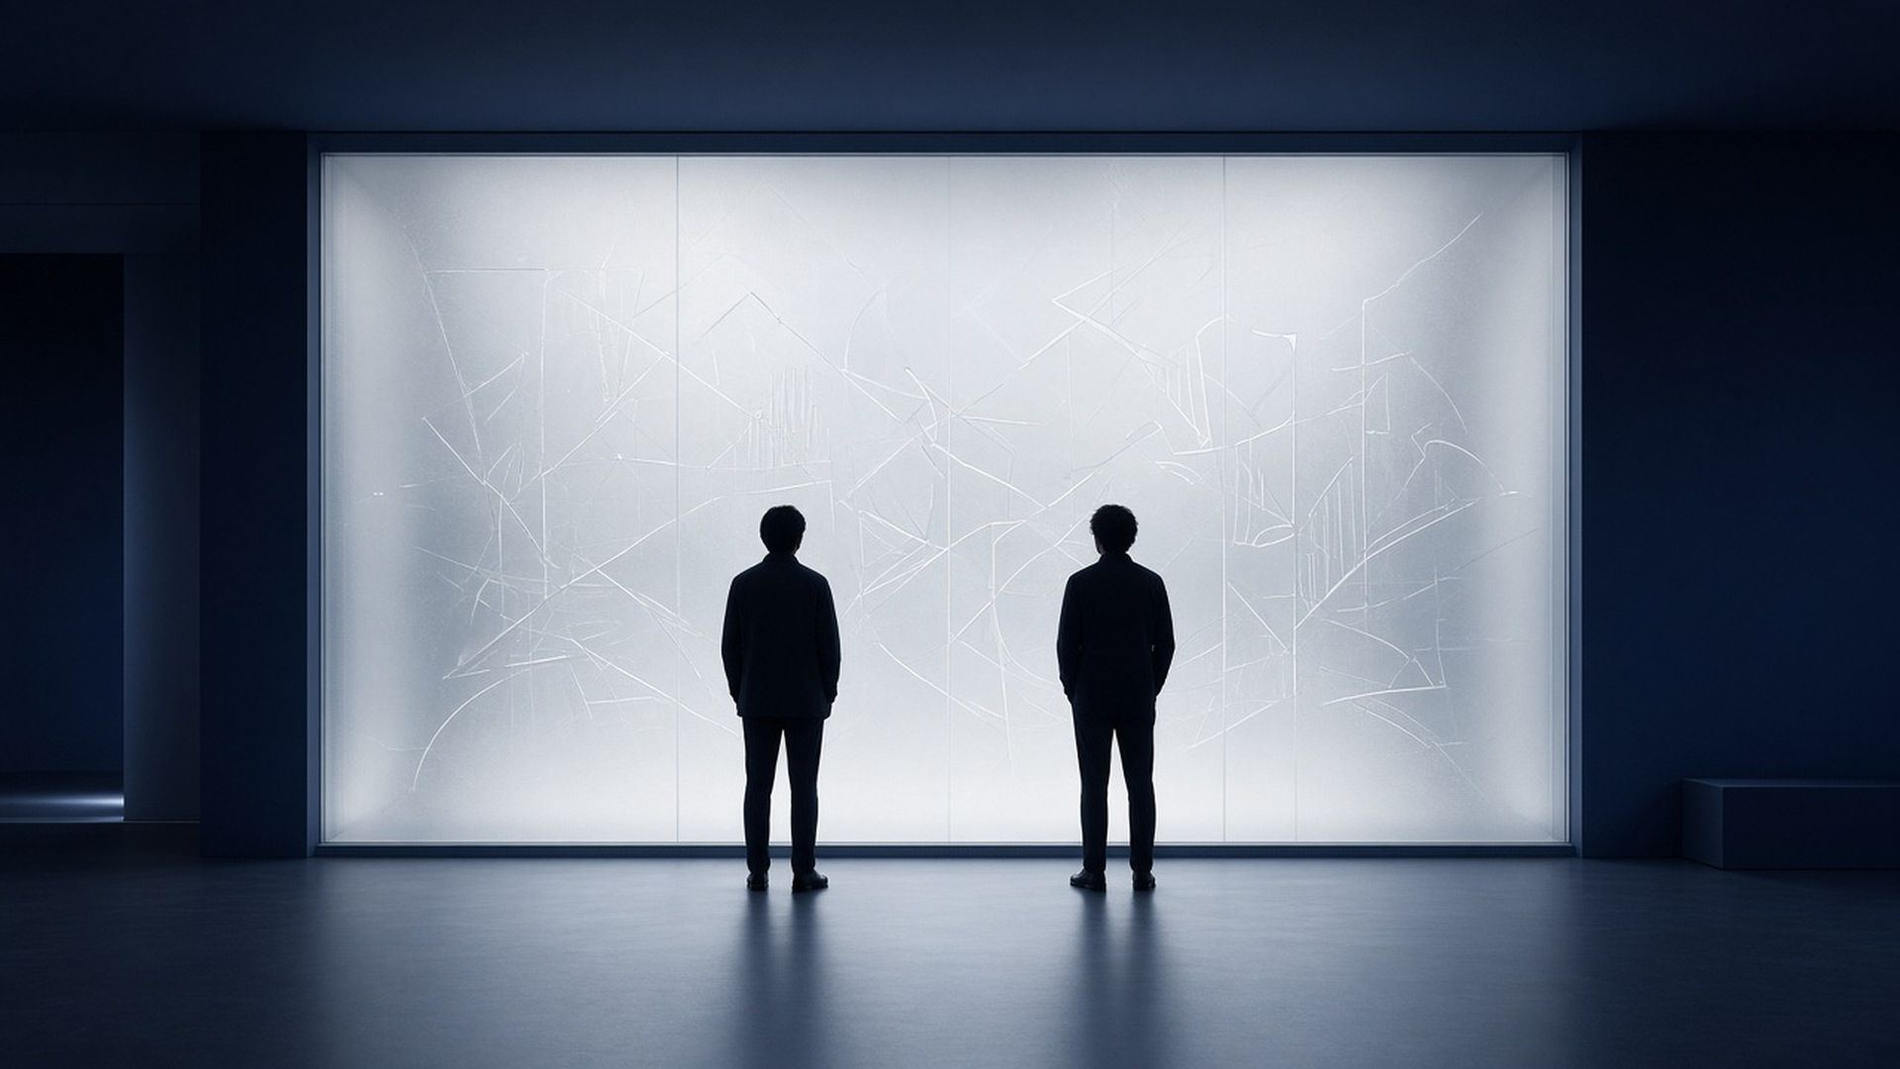
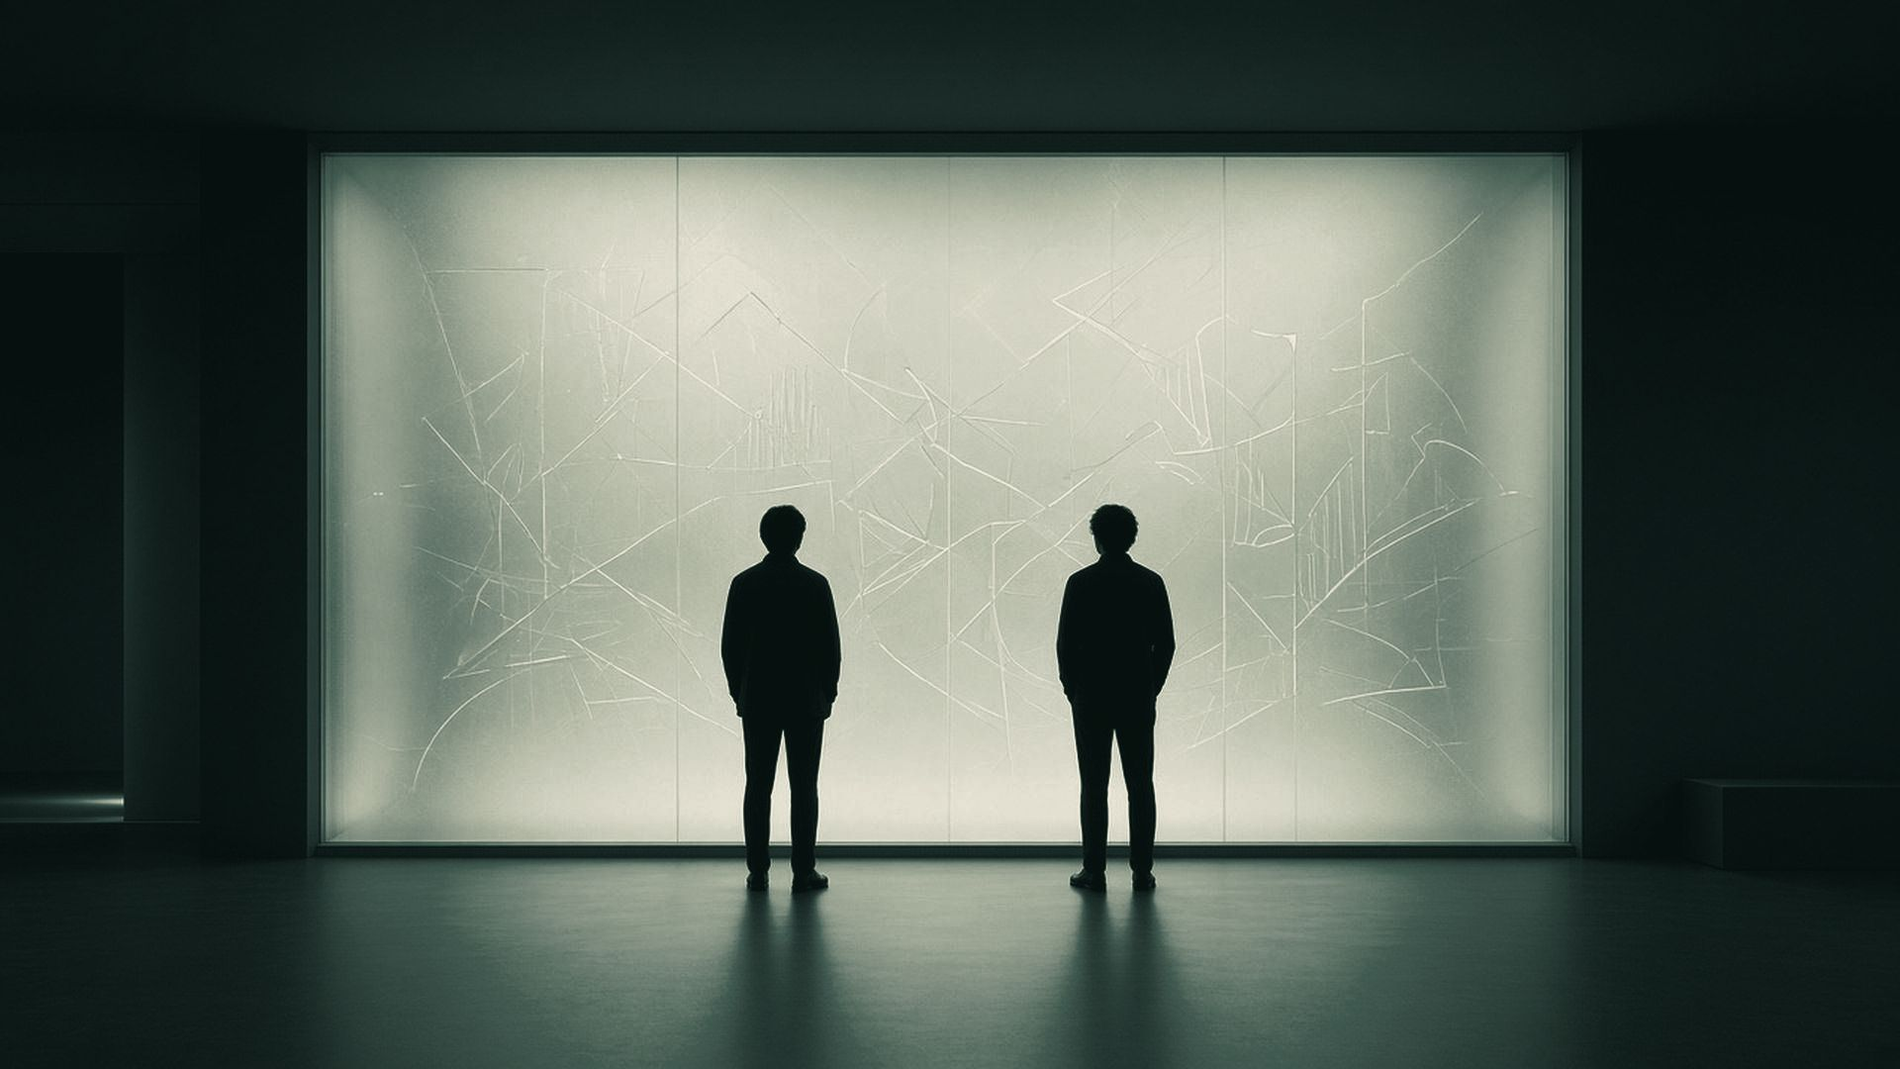
New color scheme: evergreen, bone and brass
Recolor tokens and overlays, duotone all photography to match,
regenerate favicon and Contrackr logo in the new palette.

Claude-Session: https://claude.ai/code/session_01MudNiT2iCjcjzXevBWho4v

diff --git a/assets/css/site.css b/assets/css/site.css
@@ -1,19 +1,19 @@
 /* Kenton Global Group V2
-   Dark, image-led, one type family (Archivo variable, width axis does the work).
+   Evergreen, bone and brass. Dark, image-led, one type family (Archivo variable, width axis does the work).
    Bold element: the homepage domain selector. Everything else stays quiet. */
 
 @font-face{font-family:"Archivo";src:url(../fonts/archivo-var.woff2) format("woff2-variations"),url(../fonts/archivo-var.woff2) format("woff2");font-weight:100 900;font-stretch:62% 125%;font-display:swap}
 @font-face{font-family:"Cinzel";src:url(../fonts/cinzel-700.woff2) format("woff2");font-weight:700;font-display:swap}
 
 :root{
-  --abyss:#081226;   /* page base */
-  --navy:#102040;    /* brand navy */
-  --panel:#0E1C3A;   /* raised surfaces */
-  --line:rgba(200,208,220,.16);
-  --steel:#C8D0DC;   /* secondary text */
-  --ice:#EEF2F7;     /* primary text */
-  --signal:#6FA8FF;  /* lines, focus, active state */
-  --muted:#8E9BB0;
+  --abyss:#0B1A16;   /* evergreen base */
+  --navy:#163229;    /* deep pine, alternate bands */
+  --panel:#11241F;   /* raised surfaces */
+  --line:rgba(185,194,184,.16);
+  --steel:#B9C2B8;   /* sage, secondary text */
+  --ice:#EEECE4;     /* bone, primary text */
+  --signal:#D2AE6D;  /* brass: lines, focus, active state */
+  --muted:#87958C;
 
   --f:"Archivo",system-ui,-apple-system,"Segoe UI",Arial,sans-serif;
   --wide:112%;       /* headline width */
@@ -36,7 +36,7 @@
 html{scroll-behavior:smooth;-webkit-text-size-adjust:100%}
 body{margin:0;background:var(--abyss);color:var(--steel);font-family:var(--f);font-size:var(--body);line-height:1.6;font-weight:380;-webkit-font-smoothing:antialiased;text-rendering:optimizeLegibility}
 img{display:block;max-width:100%;height:auto}
-a{color:var(--ice);text-decoration-color:rgba(111,168,255,.6);text-decoration-thickness:1px;text-underline-offset:5px}
+a{color:var(--ice);text-decoration-color:rgba(210,174,109,.6);text-decoration-thickness:1px;text-underline-offset:5px}
 a:hover{text-decoration-color:var(--signal)}
 :focus-visible{outline:2px solid var(--signal);outline-offset:3px}
 ::selection{background:var(--signal);color:var(--abyss)}
@@ -56,15 +56,15 @@ p{margin:0 0 1em;max-width:64ch}
 .btn{--c:var(--chamfer);display:inline-flex;align-items:center;gap:10px;min-height:52px;padding:0 28px;font:inherit;font-size:16px;font-weight:600;font-stretch:108%;letter-spacing:.005em;text-decoration:none;color:var(--abyss);background:var(--ice);border:0;cursor:pointer;
   clip-path:polygon(0 0,calc(100% - var(--c)) 0,100% var(--c),100% 100%,0 100%);transition:background .2s}
 .btn:hover{background:#fff}
-.btn.line{background:transparent;color:var(--ice);box-shadow:inset 0 0 0 1px rgba(238,242,247,.45)}
-.btn.line:hover{background:rgba(238,242,247,.08)}
+.btn.line{background:transparent;color:var(--ice);box-shadow:inset 0 0 0 1px rgba(238,236,228,.45)}
+.btn.line:hover{background:rgba(238,236,228,.08)}
 .btn:focus-visible{outline-offset:4px}
 .ctas{display:flex;flex-wrap:wrap;gap:14px;margin-top:36px}
 @media (max-width:560px){.ctas .btn{flex:1 1 100%;justify-content:center}}
 
 /* ---------- Header ---------- */
 .hdr{position:fixed;inset:0 0 auto 0;height:var(--hh);z-index:50;transition:background .3s,box-shadow .3s}
-.hdr.solid,.hdr.open{background:rgba(8,18,38,.94);backdrop-filter:blur(10px);-webkit-backdrop-filter:blur(10px);box-shadow:0 1px 0 var(--line)}
+.hdr.solid,.hdr.open{background:rgba(11,26,22,.94);backdrop-filter:blur(10px);-webkit-backdrop-filter:blur(10px);box-shadow:0 1px 0 var(--line)}
 .hdr .wrap{height:100%;display:flex;align-items:center;gap:40px}
 .mark{display:flex;flex-direction:column;align-items:flex-start;gap:3px;text-decoration:none;color:var(--ice);line-height:1}
 .mark b{font-family:"Cinzel",Georgia,serif;font-weight:700;font-size:25px;letter-spacing:.07em}
@@ -95,8 +95,8 @@ p{margin:0 0 1em;max-width:64ch}
 .hero{position:relative;min-height:100svh;display:flex;align-items:flex-end;overflow:hidden;isolation:isolate}
 .hero>img{position:absolute;inset:0;width:100%;height:100%;object-fit:cover;z-index:-2;object-position:60% 55%;transform:scale(1.06);animation:settle 2.4s cubic-bezier(.2,.7,.2,1) forwards}
 .hero::before{content:"";position:absolute;inset:0;z-index:-1;background:
-  linear-gradient(90deg,rgba(8,18,38,.94) 0%,rgba(8,18,38,.72) 38%,rgba(8,18,38,.2) 72%,rgba(8,18,38,.35) 100%),
-  linear-gradient(0deg,var(--abyss) 0%,rgba(8,18,38,0) 42%)}
+  linear-gradient(90deg,rgba(11,26,22,.94) 0%,rgba(11,26,22,.72) 38%,rgba(11,26,22,.2) 72%,rgba(11,26,22,.35) 100%),
+  linear-gradient(0deg,var(--abyss) 0%,rgba(11,26,22,0) 42%)}
 .hero .wrap{width:100%;padding-bottom:clamp(56px,9vh,110px);padding-top:calc(var(--hh) + 40px)}
 .hero h1{max-width:13ch}
 .hero .lede{margin-top:28px}
@@ -116,7 +116,7 @@ p{margin:0 0 1em;max-width:64ch}
   transition:flex-grow .7s cubic-bezier(.2,.7,.2,1);border-right:1px solid var(--line)}
 .domain:last-child{border-right:0}
 .domain img{position:absolute;inset:0;width:100%;height:100%;object-fit:cover;z-index:-2;filter:saturate(.85);transform:scale(1.04);transition:transform 1.2s cubic-bezier(.2,.7,.2,1),filter .6s}
-.domain::before{content:"";position:absolute;inset:0;z-index:-1;background:linear-gradient(0deg,rgba(8,18,38,.97) 0%,rgba(8,18,38,.78) 38%,rgba(8,18,38,.35) 100%);transition:background .6s}
+.domain::before{content:"";position:absolute;inset:0;z-index:-1;background:linear-gradient(0deg,rgba(11,26,22,.97) 0%,rgba(11,26,22,.78) 38%,rgba(11,26,22,.35) 100%);transition:background .6s}
 .domain::after{content:"";position:absolute;left:0;top:0;height:3px;width:100%;background:var(--signal);transform:scaleX(0);transform-origin:left;transition:transform .6s cubic-bezier(.2,.7,.2,1)}
 .domain h3{font-size:clamp(28px,2.7vw,42px);max-width:12ch;line-height:1.02}
 .domain .more{display:grid;grid-template-rows:0fr;transition:grid-template-rows .6s cubic-bezier(.2,.7,.2,1)}
@@ -126,7 +126,7 @@ p{margin:0 0 1em;max-width:64ch}
 .domain .go{margin-top:28px;display:inline-block;font-size:15px;font-weight:600;font-stretch:108%;padding-bottom:4px;border-bottom:1px solid var(--signal);width:max-content}
 .domain:is(:hover,:focus-visible,.on){flex-grow:1.9}
 .domain:is(:hover,:focus-visible,.on) img{transform:scale(1);filter:saturate(1)}
-.domain:is(:hover,:focus-visible,.on)::before{background:linear-gradient(0deg,rgba(8,18,38,.97) 0%,rgba(8,18,38,.7) 45%,rgba(8,18,38,.1) 100%)}
+.domain:is(:hover,:focus-visible,.on)::before{background:linear-gradient(0deg,rgba(11,26,22,.97) 0%,rgba(11,26,22,.7) 45%,rgba(11,26,22,.1) 100%)}
 .domain:is(:hover,:focus-visible,.on)::after{transform:scaleX(1)}
 .domain:is(:hover,:focus-visible,.on) .more{grid-template-rows:1fr}
 .domain:focus-visible{outline-offset:-4px}
@@ -176,26 +176,26 @@ p{margin:0 0 1em;max-width:64ch}
 /* Image band */
 .band{position:relative;isolation:isolate;overflow:hidden}
 .band>img{position:absolute;inset:0;width:100%;height:100%;object-fit:cover;z-index:-2}
-.band::before{content:"";position:absolute;inset:0;z-index:-1;background:linear-gradient(90deg,rgba(8,18,38,.95) 0%,rgba(8,18,38,.82) 45%,rgba(8,18,38,.45) 100%)}
+.band::before{content:"";position:absolute;inset:0;z-index:-1;background:linear-gradient(90deg,rgba(11,26,22,.95) 0%,rgba(11,26,22,.82) 45%,rgba(11,26,22,.45) 100%)}
 
 /* Venture feature */
-.venture{display:grid;grid-template-columns:minmax(0,1fr) minmax(0,1fr);border:1px solid var(--line);background:rgba(14,28,58,.6)}
+.venture{display:grid;grid-template-columns:minmax(0,1fr) minmax(0,1fr);border:1px solid var(--line);background:rgba(17,36,31,.6)}
 .venture .vimg{position:relative;min-height:340px}
 .venture .vimg img{position:absolute;inset:0;width:100%;height:100%;object-fit:cover}
 .venture .vtxt{padding:clamp(28px,4vw,56px)}
 .venture h3{margin-bottom:14px}
 .status{display:inline-flex;align-items:center;gap:9px;font-size:14px;color:var(--ice);margin-bottom:22px}
-.status::before{content:"";width:8px;height:8px;border-radius:50%;background:var(--signal);box-shadow:0 0 0 4px rgba(111,168,255,.18)}
+.status::before{content:"";width:8px;height:8px;border-radius:50%;background:var(--signal);box-shadow:0 0 0 4px rgba(210,174,109,.18)}
 /* Brand panel: a logo over a dimmed image and an engineering grid */
 .venture .vimg.brand{display:flex;align-items:center;justify-content:center;padding:48px;background:var(--abyss);isolation:isolate}
-.venture .vimg.brand .bg{opacity:.35;z-index:-2}
+.venture .vimg.brand .bg{opacity:.6;z-index:-2}
 .venture .vimg.brand::before{content:"";position:absolute;inset:0;z-index:-1;background:
-  linear-gradient(rgba(111,168,255,.07) 1px,transparent 1px) 0 0/32px 32px,
-  linear-gradient(90deg,rgba(111,168,255,.07) 1px,transparent 1px) 0 0/32px 32px,
-  radial-gradient(ellipse at center,rgba(8,18,38,.2),rgba(8,18,38,.85) 75%)}
+  linear-gradient(rgba(210,174,109,.07) 1px,transparent 1px) 0 0/32px 32px,
+  linear-gradient(90deg,rgba(210,174,109,.07) 1px,transparent 1px) 0 0/32px 32px,
+  radial-gradient(ellipse at center,rgba(11,26,22,.2),rgba(11,26,22,.85) 75%)}
 .venture .vimg.brand .mark-logo{position:relative;width:min(78%,420px);height:auto}
-.venture .vimg.client{background:#0B1530}
-.venture .vimg.client::before{background:radial-gradient(ellipse at center,rgba(111,168,255,.10),transparent 70%)}
+.venture .vimg.client{background:#0F211C}
+.venture .vimg.client::before{background:radial-gradient(ellipse at center,rgba(210,174,109,.10),transparent 70%)}
 .spec{margin:26px 0 0;border-top:1px solid var(--line)}
 .spec div{display:grid;grid-template-columns:minmax(0,.8fr) minmax(0,1.6fr);gap:20px;padding:16px 0;border-bottom:1px solid var(--line)}
 .spec dt{color:var(--ice);font-weight:600;font-size:16px;font-stretch:106%}
@@ -222,7 +222,7 @@ p{margin:0 0 1em;max-width:64ch}
 /* ---------- Inner page hero ---------- */
 .phero{position:relative;min-height:min(78vh,760px);display:flex;align-items:flex-end;isolation:isolate;overflow:hidden}
 .phero>img{position:absolute;inset:0;width:100%;height:100%;object-fit:cover;z-index:-2}
-.phero::before{content:"";position:absolute;inset:0;z-index:-1;background:linear-gradient(90deg,rgba(8,18,38,.95) 0%,rgba(8,18,38,.7) 45%,rgba(8,18,38,.25) 100%),linear-gradient(0deg,var(--abyss) 0%,rgba(8,18,38,0) 50%)}
+.phero::before{content:"";position:absolute;inset:0;z-index:-1;background:linear-gradient(90deg,rgba(11,26,22,.95) 0%,rgba(11,26,22,.7) 45%,rgba(11,26,22,.25) 100%),linear-gradient(0deg,var(--abyss) 0%,rgba(11,26,22,0) 50%)}
 .phero .wrap{width:100%;padding-top:calc(var(--hh) + 60px);padding-bottom:clamp(48px,7vw,96px)}
 .phero h1{font-size:clamp(42px,6.2vw,88px);max-width:15ch}
 .phero .lede{margin-top:24px}
@@ -282,7 +282,7 @@ p{margin:0 0 1em;max-width:64ch}
 .form{display:grid;grid-template-columns:1fr 1fr;gap:22px 24px}
 .form .full{grid-column:1/-1}
 .form label{display:block;font-size:15px;color:var(--steel);margin-bottom:8px}
-.form input,.form select,.form textarea{width:100%;font:inherit;font-size:17px;color:var(--ice);background:rgba(8,18,38,.6);border:1px solid rgba(200,208,220,.28);border-radius:0;padding:14px 16px;transition:border-color .2s}
+.form input,.form select,.form textarea{width:100%;font:inherit;font-size:17px;color:var(--ice);background:rgba(11,26,22,.6);border:1px solid rgba(185,194,184,.28);border-radius:0;padding:14px 16px;transition:border-color .2s}
 .form select{appearance:none;background-image:linear-gradient(45deg,transparent 50%,var(--steel) 50%),linear-gradient(135deg,var(--steel) 50%,transparent 50%);background-position:calc(100% - 22px) 50%,calc(100% - 16px) 50%;background-size:6px 6px;background-repeat:no-repeat}
 .form select option{background:var(--abyss)}
 .form textarea{min-height:160px;resize:vertical}
@@ -301,7 +301,7 @@ p{margin:0 0 1em;max-width:64ch}
 .legal h2:first-child{margin-top:0}
 
 /* ---------- Footer ---------- */
-.ftr{background:#060E1E;border-top:1px solid var(--line);padding:clamp(64px,8vw,104px) 0 36px;font-size:15.5px}
+.ftr{background:#08130F;border-top:1px solid var(--line);padding:clamp(64px,8vw,104px) 0 36px;font-size:15.5px}
 .fgrid{display:grid;grid-template-columns:1.4fr repeat(3,1fr);gap:40px}
 .ftr h4{font-size:15px;font-weight:600;color:var(--ice);margin-bottom:16px;font-stretch:106%}
 .ftr ul{list-style:none;margin:0;padding:0}

diff --git a/index.html b/index.html
@@ -6,7 +6,7 @@
 <title>Kenton Global Group | AI and Digital Transformation</title>
 <meta name="description" content="Kenton Global Group is an AI and digital transformation company. AI and automation, systems modernization and forward engineering, headquartered in Covington, Kentucky with an office in Charleston, South Carolina.">
 <meta name="robots" content="noindex,nofollow">
-<meta name="theme-color" content="#081226">
+<meta name="theme-color" content="#0B1A16">
 <meta property="og:title" content="Kenton Global Group | AI and Digital Transformation">
 <meta property="og:description" content="Kenton Global Group is an AI and digital transformation company. AI and automation, systems modernization and forward engineering, headquartered in Covington, Kentucky with an office in Charleston, South Carolina.">
 <meta property="og:image" content="./assets/img/hero-command.jpg">

diff --git a/privacy/index.html b/privacy/index.html
@@ -6,7 +6,7 @@
 <title>Privacy Policy | Kenton Global Group</title>
 <meta name="description" content="Kenton Global Group is an AI and digital transformation company. AI and automation, systems modernization and forward engineering, headquartered in Covington, Kentucky with an office in Charleston, South Carolina.">
 <meta name="robots" content="noindex,nofollow">
-<meta name="theme-color" content="#081226">
+<meta name="theme-color" content="#0B1A16">
 <meta property="og:title" content="Privacy Policy | Kenton Global Group">
 <meta property="og:description" content="Kenton Global Group is an AI and digital transformation company. AI and automation, systems modernization and forward engineering, headquartered in Covington, Kentucky with an office in Charleston, South Carolina.">
 <meta property="og:image" content="../assets/img/hero-command.jpg">

diff --git a/404.html b/404.html
@@ -7,7 +7,7 @@
 <title>Page not found | Kenton Global Group</title>
 <meta name="description" content="Kenton Global Group is an AI and digital transformation company. AI and automation, systems modernization and forward engineering, headquartered in Covington, Kentucky with an office in Charleston, South Carolina.">
 <meta name="robots" content="noindex,nofollow">
-<meta name="theme-color" content="#081226">
+<meta name="theme-color" content="#0B1A16">
 <meta property="og:title" content="Page not found | Kenton Global Group">
 <meta property="og:description" content="Kenton Global Group is an AI and digital transformation company. AI and automation, systems modernization and forward engineering, headquartered in Covington, Kentucky with an office in Charleston, South Carolina.">
 <meta property="og:image" content="assets/img/hero-command.jpg">

diff --git a/terms/index.html b/terms/index.html
@@ -6,7 +6,7 @@
 <title>Terms of Use | Kenton Global Group</title>
 <meta name="description" content="Kenton Global Group is an AI and digital transformation company. AI and automation, systems modernization and forward engineering, headquartered in Covington, Kentucky with an office in Charleston, South Carolina.">
 <meta name="robots" content="noindex,nofollow">
-<meta name="theme-color" content="#081226">
+<meta name="theme-color" content="#0B1A16">
 <meta property="og:title" content="Terms of Use | Kenton Global Group">
 <meta property="og:description" content="Kenton Global Group is an AI and digital transformation company. AI and automation, systems modernization and forward engineering, headquartered in Covington, Kentucky with an office in Charleston, South Carolina.">
 <meta property="og:image" content="../assets/img/hero-command.jpg">

diff --git a/contact/index.html b/contact/index.html
@@ -6,7 +6,7 @@
 <title>Contact | Kenton Global Group</title>
 <meta name="description" content="Kenton Global Group is an AI and digital transformation company. AI and automation, systems modernization and forward engineering, headquartered in Covington, Kentucky with an office in Charleston, South Carolina.">
 <meta name="robots" content="noindex,nofollow">
-<meta name="theme-color" content="#081226">
+<meta name="theme-color" content="#0B1A16">
 <meta property="og:title" content="Contact | Kenton Global Group">
 <meta property="og:description" content="Kenton Global Group is an AI and digital transformation company. AI and automation, systems modernization and forward engineering, headquartered in Covington, Kentucky with an office in Charleston, South Carolina.">
 <meta property="og:image" content="../assets/img/hero-command.jpg">

diff --git a/about/index.html b/about/index.html
@@ -6,7 +6,7 @@
 <title>About | Kenton Global Group</title>
 <meta name="description" content="Kenton Global Group is an AI and digital transformation company. AI and automation, systems modernization and forward engineering, headquartered in Covington, Kentucky with an office in Charleston, South Carolina.">
 <meta name="robots" content="noindex,nofollow">
-<meta name="theme-color" content="#081226">
+<meta name="theme-color" content="#0B1A16">
 <meta property="og:title" content="About | Kenton Global Group">
 <meta property="og:description" content="Kenton Global Group is an AI and digital transformation company. AI and automation, systems modernization and forward engineering, headquartered in Covington, Kentucky with an office in Charleston, South Carolina.">
 <meta property="og:image" content="../assets/img/hero-command.jpg">

diff --git a/digital-transformation/index.html b/digital-transformation/index.html
@@ -6,7 +6,7 @@
 <title>Digital Transformation | Kenton Global Group</title>
 <meta name="description" content="Systems modernization, ERP selection, data and analytics, cybersecurity and growth support for organizations that have outgrown their tools.">
 <meta name="robots" content="noindex,nofollow">
-<meta name="theme-color" content="#081226">
+<meta name="theme-color" content="#0B1A16">
 <meta property="og:title" content="Digital Transformation | Kenton Global Group">
 <meta property="og:description" content="Systems modernization, ERP selection, data and analytics, cybersecurity and growth support for organizations that have outgrown their tools.">
 <meta property="og:image" content="../assets/img/hero-command.jpg">

diff --git a/ai-automation/index.html b/ai-automation/index.html
@@ -6,7 +6,7 @@
 <title>AI & Automation | Kenton Global Group</title>
 <meta name="description" content="AI readiness, AI agents, workflow automation, knowledge assistants and governance, with people approving what matters.">
 <meta name="robots" content="noindex,nofollow">
-<meta name="theme-color" content="#081226">
+<meta name="theme-color" content="#0B1A16">
 <meta property="og:title" content="AI & Automation | Kenton Global Group">
 <meta property="og:description" content="AI readiness, AI agents, workflow automation, knowledge assistants and governance, with people approving what matters.">
 <meta property="og:image" content="../assets/img/hero-command.jpg">

diff --git a/forward-engineering/index.html b/forward-engineering/index.html
@@ -6,7 +6,7 @@
 <title>Forward Engineering | Kenton Global Group</title>
 <meta name="description" content="Engineers who embed with your team, build working prototypes fast and ship tools that stay in use.">
 <meta name="robots" content="noindex,nofollow">
-<meta name="theme-color" content="#081226">
+<meta name="theme-color" content="#0B1A16">
 <meta property="og:title" content="Forward Engineering | Kenton Global Group">
 <meta property="og:description" content="Engineers who embed with your team, build working prototypes fast and ship tools that stay in use.">
 <meta property="og:image" content="../assets/img/hero-command.jpg">

diff --git a/ventures/index.html b/ventures/index.html
@@ -6,7 +6,7 @@
 <title>Ventures | Kenton Global Group</title>
 <meta name="description" content="Products Kenton Global Group builds and tests itself, starting with Contrackr.">
 <meta name="robots" content="noindex,nofollow">
-<meta name="theme-color" content="#081226">
+<meta name="theme-color" content="#0B1A16">
 <meta property="og:title" content="Ventures | Kenton Global Group">
 <meta property="og:description" content="Products Kenton Global Group builds and tests itself, starting with Contrackr.">
 <meta property="og:image" content="../assets/img/hero-command.jpg">

diff --git a/README.md b/README.md
@@ -46,7 +46,7 @@ Steidle Fabricating appears on the homepage and About page, using its logo (`ass
 
 ## Design system
 
-- **Palette:** Abyss `#081226` (base), Navy `#102040` (brand), Panel `#0E1C3A`, Steel `#C8D0DC` (secondary text), Ice `#EEF2F7` (primary text), Signal `#6FA8FF` (used only for lines, focus and active states).
+- **Palette:** Evergreen `#0B1A16` (base), Pine `#163229`, Panel `#11241F`, Sage `#B9C2B8` (secondary text), Bone `#EEECE4` (primary text), Brass `#D2AE6D` (used only for lines, focus and active states). Photos use an evergreen-to-bone duotone so they match the palette.
 - **Type:** Archivo variable throughout. Headlines are set at 112% width and body text at normal width. Cinzel appears only in the KENTON wordmark.
 - **Signature element:** the homepage domain selector. Three full-height panels widen on hover or focus. On mobile they stack.
 - **Details:** buttons have chamfered corners. Motion is limited to the hero load sequence and user-triggered changes, and it respects `prefers-reduced-motion`.
